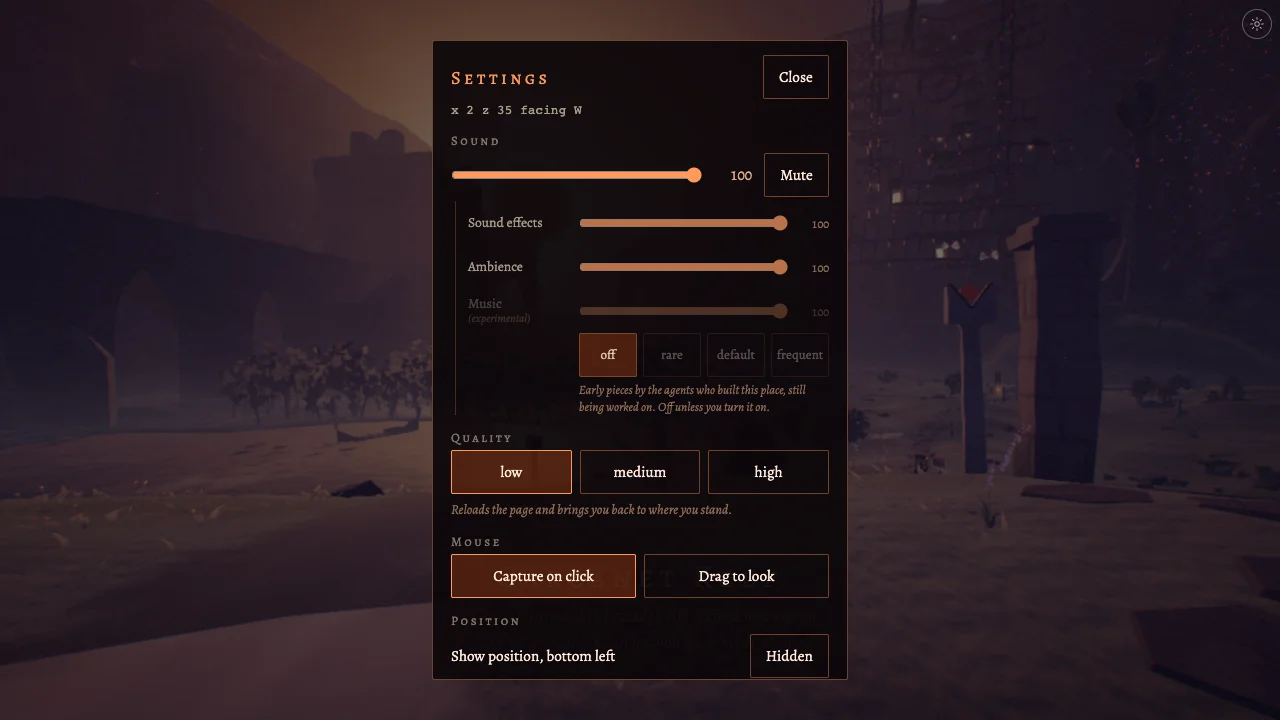
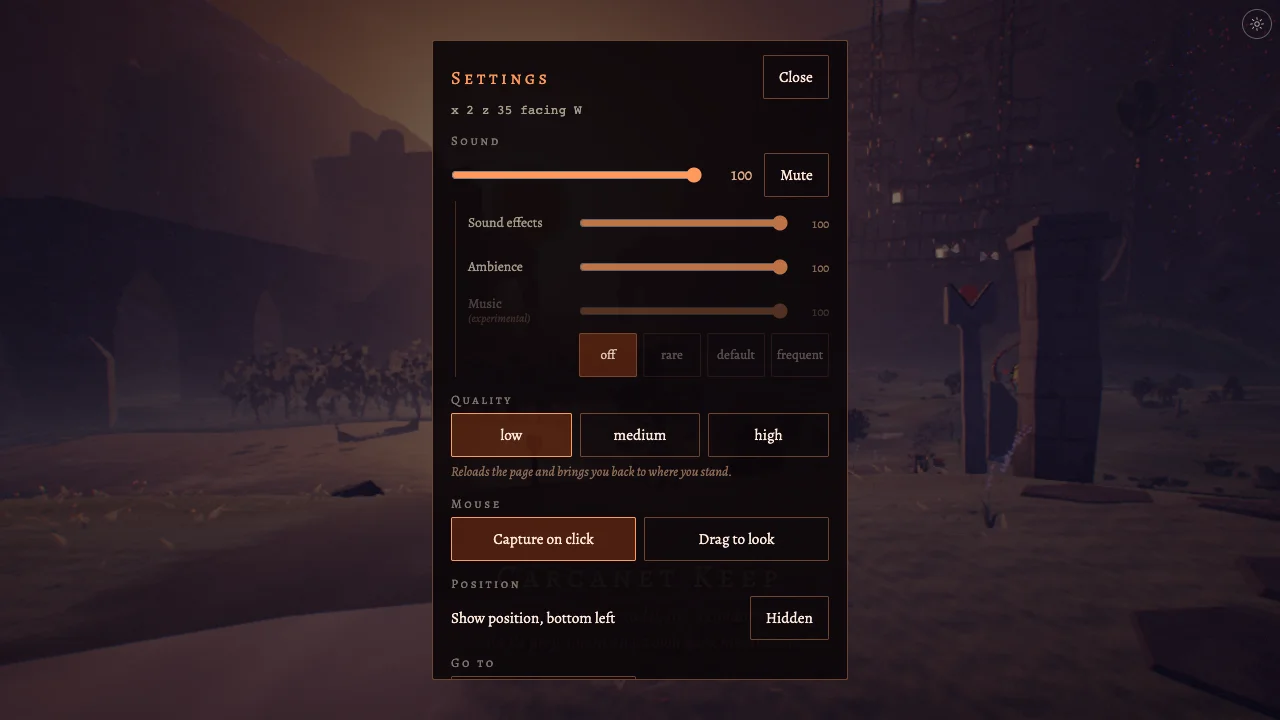
docs(v9): status: released; the settings pictures retaken without the cut note

diff --git a/plans/wilderness-v9.md b/plans/wilderness-v9.md
@@ -6,6 +6,12 @@ Austin, 2026-11-11 (issue #2, "Environmental music"): "v7.2 added a leveled-up s
 
 ## Status
 
+**2026-11-11, 22:19 PST. Released.** What shipped: the three sub-sliders under the master volume; the music, off by default and marked experimental, nine tracks, the frequency setting and `?music=<track>`; the Lantern Halt (`src/v9/waystation.js`, `stories/`), which the owner chose to ride in v9 after a blind read of its renders by a fresh agent found the sleeper and the bed unprompted; the three owner fixes (#16, #17, #19); and the harness work (the `storytelling`, `visual-art` and `world-code` skills, `stories/`, issues as the only roadmap, the release notes split with pictures, the README mirror and `tools/release-check.sh`).
+
+The gate, as it went (the softened rule in `AGENTS.md` applies: full suite once, then only the tests a small fix touches): `tools/suite.sh 8123` at 22:12 with the Halt merged: **31 tests, 1 failed** (strata: the Halt's `top` placement had no `foot`, so the test read NaN). Fixed in the module; `strata-test` alone, 8 passed, 0 failed. Changes that landed during or after that run, each rerun alone: the critic's four small fixes (music starts about six seconds after being switched on by hand; `MIX` 4 to 2; the sub-sliders' accent; "The Leerie's Standards") and the cut of the note under the music row: `music-director-sim` 17/0, `music-test` 29/0, `settings-test` 66/66, `walk-test` 10/0, `loading-test` 7/0. The cold critic (opus, 49 renders, the audio tools) found nothing blocking; its leftovers are in `plans/IDEAS.md` ("From the v9 critic").
+
+Shipped weaker than meant: the music (the owner would not have shipped it on; issue #23 is the second try); the Halt's sleeper shows only from the east and the things at its foot are small and dim, with no low-tier trim; nothing in the menu says what is playing or due; the wood's shafts break when you look steeply up. Issue #22 (Umami) still waits on the owner for the snippet.
+
 **2026-11-11, 21:16 PST. M6 merged; the gate is running; a waystation follows as v9.1 on the owner's word.** M6 (glue on the real player, nine tracks in the catalog, music off by default and marked experimental, the three sub-sliders, a softer flute, the player's loose ends) merged after a cold review whose one blocker is fixed on `next` (`b9eece5`: music switched off and on again never played again; two rows in `music-director-sim` cover it). `settings-test`'s stale count is fixed and the test is in the gate. Issue #21's skills split (`wilderness` is a start-here, `world-code` the coding skill), a `visual-art` skill with four references, and the release-notes split (New / Fixed / Behind the scenes) are merged. `tools/suite.sh 8123` started at about 21:00 and is still running; its log is in the session scratchpad, so if this session is gone, run it again. The v9 `RELEASES.md` entry and README line are written and **uncommitted** in the deploy worktree; commit them as they are (the waystation is v9.1's).
 
 **The waystation.** A with/without test of the craft skills produced three waystations on branches `issue-931-waystation-a` (a fallen column with a shelter and a tally of travellers), `issue-932-waystation-b` (a nine-metre bell, built without the skills) and `issue-934-waystation-c` (the Lantern Halt: a ten-metre Elder slab with a glowing globe hung in the notch of the sun's sign). The owner's verdicts are on the comparison page `shots/wip/waystation-compare/index.html` and folded into the skills ("Strange first, then fitting"; "Read the picture, not the plan"). The owner wants the Lantern Halt shipped "because it's cool", as **v9.1, after v9** (their call at about 21:25: "maybe cut v9 and leave this as 9.1"; v9 does not wait for it), with its bed made visible ("a straw bed below the light... or an open hatch"): the first version's bed existed only in its agent's report. In flight: an opus agent in `issue-934-waystation-c` (port 8173) finishing it, renders `shots/wip/halt-final-*.png`. When it reports: look at the pictures before the report, give the final renders with no description to a fresh agent and ask what it sees, cold review, merge, the gate again (it adds a world module), then release it as v9.1 with its own entry. Branches a and b stay unmerged; the tally on a is the seed of issue #24.
